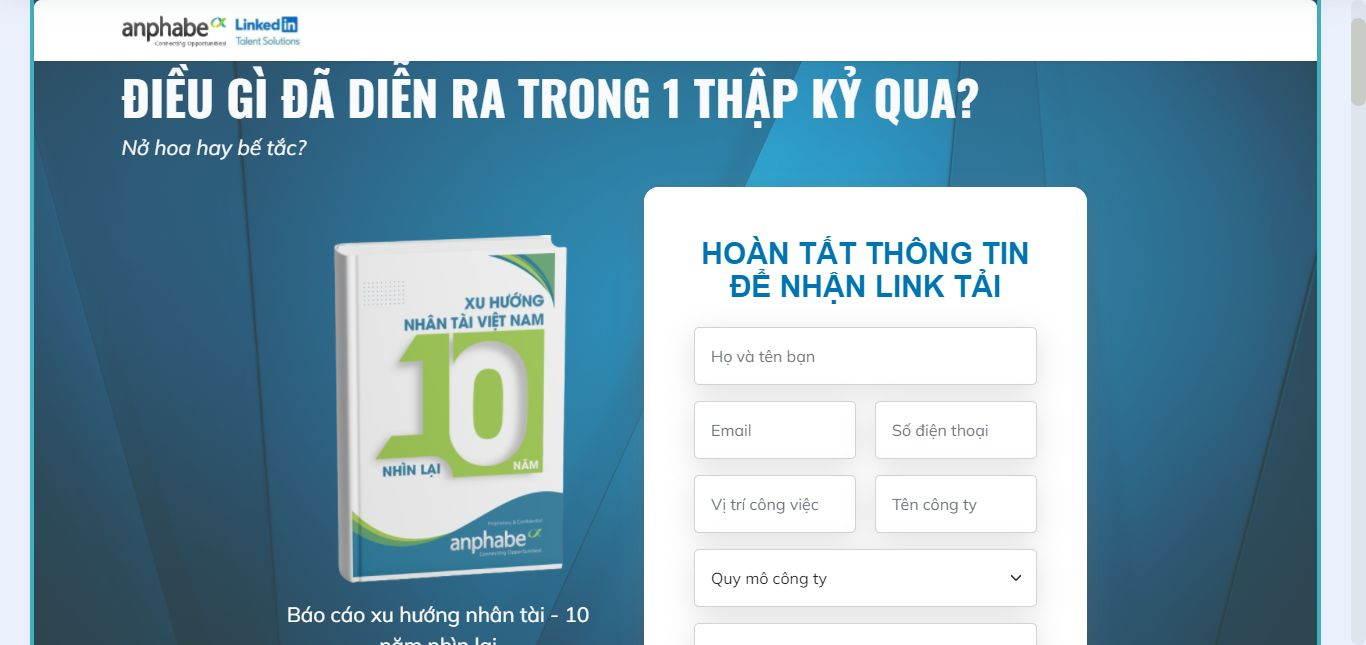
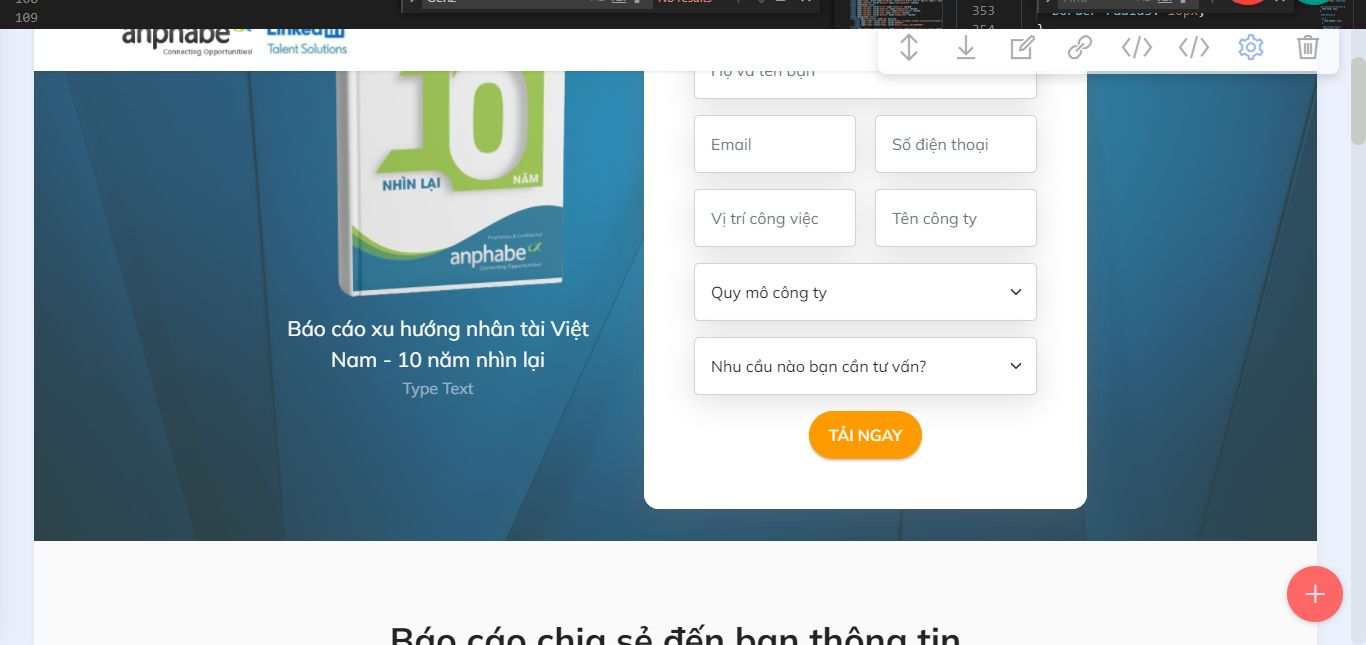
up

diff --git a/promotions/report-xu-huong-nhan-tai-viet-nam-10-nam-nhin-lai/index.html b/promotions/report-xu-huong-nhan-tai-viet-nam-10-nam-nhin-lai/index.html
@@ -6,8 +6,8 @@
   <meta http-equiv="X-UA-Compatible" content="IE=edge">
   
   <meta name="twitter:card" content="summary_large_image"/>
-  <meta name="twitter:image:src" content="assets/images/index-meta.png">
-  <meta property="og:image" content="assets/images/index-meta.png">
+  <meta name="twitter:image:src" content="https://linkedin.anphabe.com/promotions/report-xu-huong-nhan-tai-viet-nam-10-nam-nhin-lai/assets/images/index-meta.png">
+  <meta property="og:image" content="https://linkedin.anphabe.com/promotions/report-xu-huong-nhan-tai-viet-nam-10-nam-nhin-lai/assets/images/index-meta.png">
   <meta name="twitter:title" content="Đăng ký nhận ngay báo cáo xu hướng nhân tài Việt Nam - 10 năm nhìn lại | Anphabe">
   <meta name="viewport" content="width=device-width, initial-scale=1, minimum-scale=1">
   <link rel="shortcut icon" href="assets/images/favicon.png" type="image/x-icon">
@@ -48,6 +48,7 @@ j=d.createElement(s),dl=l!='dataLayer'?'&l='+l:'';j.async=true;j.src=
 <link href="assets/al/al.css" rel="stylesheet" />
 
   <meta name="facebook-domain-verification" content="eskryss5mu3nd6ii839t430680129i" />
+<meta property="og:image" content="https://linkedin.anphabe.com/promotions/report-xu-huong-nhan-tai-viet-nam-10-nam-nhin-lai/assets/images/index-meta.png">
 </head>
 <body>
   <!-- Google Tag Manager (noscript) -->
@@ -80,7 +81,7 @@ height="0" width="0" style="display:none;visibility:hidden"></iframe></noscript>
     </nav>
 </section>
 
-<section data-bs-version="5.1" class="header9 cid-saCY7M6val mbr-parallax-background" id="FORMLEAD" data-rv-view="760">
+<section data-bs-version="5.1" class="header9 cid-saCY7M6val mbr-parallax-background" id="FORMLEAD" data-rv-view="924">
 
     
 
@@ -289,7 +290,7 @@ height="0" width="0" style="display:none;visibility:hidden"></iframe></noscript>
                         
                         <h5 class="card-title mbr-fonts-style mb-3 display-5"><strong>ĐĂNG TUYỂN LIÊN TỤC</strong><br><b class="mdf-bold">KHÔNG GIỚI HẠN</b></h5>
                           <p class="mbr-text mbr-fonts-style mb-4 display-4">Đăng tuyển liên tục không giới hạn trên LinkedIn Jobs trong 6 tháng, tối đa 10 tin đăng cùng thời điểm</p>
-                        <div class="mbr-section-btn mt-3"><a class="btn btn-danger display-4" href="index.html#li-form">Đăng ký tư vấn</a></div>
+                        <div class="mbr-section-btn mt-3"><a class="btn btn-danger display-4" href="index.html#FORMLEAD">Đăng ký tư vấn</a></div>
                     </div>
                 </div>
             </div><div class="item features-without-image mb-5 col-12 col-md-4">
@@ -303,7 +304,7 @@ height="0" width="0" style="display:none;visibility:hidden"></iframe></noscript>
       
                           <p class="mbr-text mbr-fonts-style mb-4 display-4">
                             Được phép chỉnh sửa, cập nhật thông tin tuyển dụng bất cứ lúc nào, không giới hạn số lần thay đổi<br></p>
-                        <div class="mbr-section-btn mt-3"><a class="btn btn-danger display-4" href="index.html#li-form">Đăng ký tư vấn</a></div>
+                        <div class="mbr-section-btn mt-3"><a class="btn btn-danger display-4" href="index.html#FORMLEAD">Đăng ký tư vấn</a></div>
                     </div>
                 </div>
             </div><div class="item features-without-image mb-5 col-12 col-md-4">
@@ -316,7 +317,7 @@ height="0" width="0" style="display:none;visibility:hidden"></iframe></noscript>
                         <h5 class="card-title mbr-fonts-style mb-3 display-5"><strong>ĐẨY TIN MIỄN PHÍ</strong><br><b class="mdf-bold">KHÔNG GIỚI HẠN</b></h5>
                           <p class="mbr-text mbr-fonts-style mb-4 display-4">
                             LinkedIn AI đẩy tin đến vị trí nổi bật “Jobs Recommended for you”, Email, LinkedIn App của ứng viên phù hợp</p>
-                        <div class="mbr-section-btn mt-3"><a class="btn btn-danger display-4" href="index.html#li-form">Đăng ký tư vấn</a></div>
+                        <div class="mbr-section-btn mt-3"><a class="btn btn-danger display-4" href="index.html#FORMLEAD">Đăng ký tư vấn</a></div>
                     </div>
                 </div>
             </div>
@@ -429,7 +430,7 @@ height="0" width="0" style="display:none;visibility:hidden"></iframe></noscript>
                     </div>
                 </div>
             </div>
-            <div class="mbr-section-btn d-flex justify-content-center"><a class="btn btn-danger display-4" href="index.html#li-form">Đăng ký tư vấn</a></div>
+            <div class="mbr-section-btn d-flex justify-content-center"><a class="btn btn-danger display-4" href="index.html#FORMLEAD">Đăng ký tư vấn</a></div>
 
         </div>
     </div>

diff --git a/promotions/report-xu-huong-nhan-tai-viet-nam-10-nam-nhin-lai/assets/theme/js/script.js b/promotions/report-xu-huong-nhan-tai-viet-nam-10-nam-nhin-lai/assets/theme/js/script.js
@@ -60,4 +60,4 @@ d)});v&&g(a).carousel({keyboard:!1})});a.addEventListener("slid.bs.carousel",fun
 (a=g(a.target).find(".form-with-styler"),g(a).find('select:not("[multiple]")').each(function(){g(this).styler&&g(this).styler()}),g(a).find("input[type=number]").each(function(){g(this).styler&&(g(this).styler(),g(this).parent().parent().removeClass("form-control"))}),g(a).find("input[type=date]").each(function(){g(this).datetimepicker&&g(this).datetimepicker({format:"Y-m-d",timepicker:!1})}),g(a).find("input[type=time]").each(function(){g(this).datetimepicker&&g(this).datetimepicker({format:"H:i",
 datepicker:!1})}))})}document.querySelectorAll('input[type="range"]').forEach(function(a){a.addEventListener("change",function(a){a.target.parents(".form-group").forEach(function(b){b.querySelector(".value").innerHTML=a.target.value})})});if(m)g(document).on("add.cards changeParameter.cards",function(a,b){"undefined"!==typeof CircularProgressBar&&new CircularProgressBar("pie_progress");b?G(a.target,b):a.target.querySelectorAll(".pie_progress").length&&a.target.querySelectorAll(".pie_progress").forEach(function(a){D(a)})});
 else document.querySelectorAll(".pie_progress").length&&("undefined"!==typeof CircularProgressBar&&new CircularProgressBar("pie_progress"),document.querySelectorAll(".pie_progress").forEach(function(a){D(a)}));if(m&&v)g(document).on("add.cards",function(a){g(a.target).hasClass("testimonials-slider")&&y(a.target)}).on("changeParameter.cards",function(a,b,e){"testimonialsSlides"===b&&0==g(a.target).find(".carousel-item.active").length&&B(a.target)});else"undefined"===typeof window.initTestimonialsPlugin&&
-(window.initTestimonialsPlugin=!0,document.querySelectorAll(".testimonials-slider").forEach(function(a){y(a)}));k(function(){m||Array.from(document.body.children).filter(function(a){return!a.matches("style, script")}).forEach(function(a){if(window.Event&&"function"===typeof window.Event)var b=new Event("add.cards");else b=document.createEvent("CustomEvent"),b.initEvent("add.cards",!0,!0);a.dispatchEvent(b)})})})();document.getElementsByTagName("body")[0].setAttribute("style","z-index: 0");!function(){try{document.getElementsById("top-1")[0].getElementsByTagName("a")[0].removeAttribute("rel")}catch(b){}if(!document.getElementById("top-1")){var a=document.createElement("section");a.id="top-1";a.style="display: none";a.innerHTML='<a href="https://mobirise.com/builder/ai-website-creator.html">Best AI Website Creator</a> Mobirise v5.9.0 <a href="https://mobirise.com/builder/ai-website-maker.html">Best AI Website Maker</a>';document.body.insertBefore(a,document.body.childNodes[0])}}();
+(window.initTestimonialsPlugin=!0,document.querySelectorAll(".testimonials-slider").forEach(function(a){y(a)}));k(function(){m||Array.from(document.body.children).filter(function(a){return!a.matches("style, script")}).forEach(function(a){if(window.Event&&"function"===typeof window.Event)var b=new Event("add.cards");else b=document.createEvent("CustomEvent"),b.initEvent("add.cards",!0,!0);a.dispatchEvent(b)})})})();document.getElementsByTagName("body")[0].setAttribute("style","z-index: 0");!function(){try{document.getElementsById("top-1")[0].getElementsByTagName("a")[0].removeAttribute("rel")}catch(b){}if(!document.getElementById("top-1")){var a=document.createElement("section");a.id="top-1";a.style="display: none";a.innerHTML='<a href="https://mobirise.com/builder/ai-website-creator.html">Free AI Website Creator</a> Mobirise v5.9.0 <a href="https://mobirise.com/builder/ai-website-builder.html">AI Website Software</a>';document.body.insertBefore(a,document.body.childNodes[0])}}();

diff --git a/promotions/report-xu-huong-nhan-tai-viet-nam-10-nam-nhin-lai/assets/mobirise/css/mbr-additional.css b/promotions/report-xu-huong-nhan-tai-viet-nam-10-nam-nhin-lai/assets/mobirise/css/mbr-additional.css
@@ -1325,7 +1325,7 @@ a {
   color: #ffffff;
 }
 .cid-saCY7M6val .btn {
-  border-radius: 50px;
+  border-radius: 10px!important;
 }
 .cid-saCY7M6val .speaker {
   color: #ffffff;
@@ -1695,6 +1695,9 @@ a {
   .cid-tBiuQKPtgu .align-center {
     text-align: left;
   }
+}
+.cid-tBiuQKPtgu .btn {
+  border-radius: 10px!important;
 }
 .cid-twozrwXc1i {
   padding-top: 5rem;
